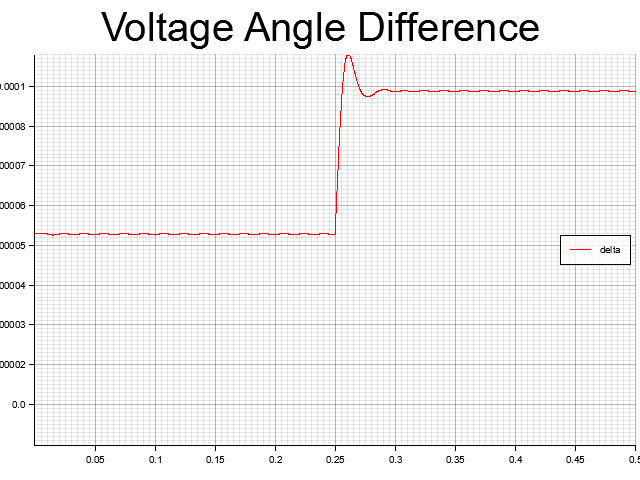
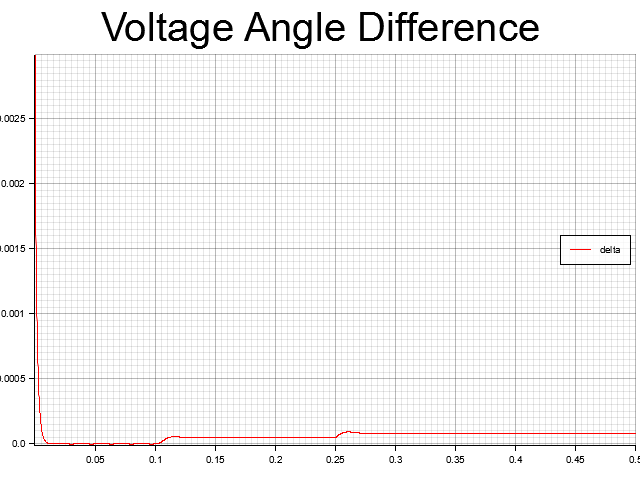
Modified simulation for GFM object with presync

Changed region(s): [[0.0, 0.0938, 1.0, 0.9375]]

diff --git a/src/main.rs b/src/main.rs
@@ -3,7 +3,7 @@
 use std::*;
 use plotters::prelude::*;
 use unifi_gfm::calc::*;
-use unifi_gfm::dvoc::*;
+use unifi_gfm::gfm::*;
 use unifi_gfm::refs::*;
 use unifi_gfm::sims::*;
 use unifi_gfm::constants::*;
@@ -24,12 +24,14 @@ fn main() -> Result<(), Box<dyn std::error::Error>> {
     let dt: f32 = 1.0e-4_f32;
     let xi: f32 = 15.;
     let c: f32 = 0.2679;
+    let gamma: f32 = 1.; 
 
     let z_base = 3. * v_nom * v_nom / s_rated;
 
     let mut inv = build_dvoc_controller(v_nom, w_nom, xi, c);
-    inv.x[(1)] = dt * 0.53;  // Initialize inverter angle leading the grid angle by ~half a cycle to start closer to the digital equalibria
-    inv.x[(0)] = 0.999965;  // Initialize inverter voltage slightly lower than nominal to start closer to the digital equalibria
+    inv.x[(1)] = 0.003;  // Initialize inverter angle to be off from the grid
+    inv.x[(0)] = 1.1;  // Initialize inverter voltage
+    let mut gfm = build_gfm(&mut inv, gamma);  // Place the dVOC controller within a GFM interface object
 
     let rf = 0.8;
     let lf = 1.5e-3;
@@ -39,14 +41,21 @@ fn main() -> Result<(), Box<dyn std::error::Error>> {
     /*
     RUNNING DYNAMICAL SIMULATION
     */
+    // Simulation settings
     let t_end = 0.5;  // Simulate time in seconds
+    let t_step = t_end / 2.; // Active power reference step time
+    let t_switch = 0.1;  // Grid-side switch time
     let n_steps: u32 = (t_end / dt).ceil() as u32;
     let cont_n_steps = 20;  // Number of steps taken for 'continuous' dynamics for each digital step
     let cont_dt = dt / (cont_n_steps as f32);
     let steps: Vec<u32> = (0..n_steps+1).collect();
+    // Initialize simulation variables
     let mut t: f32;
-    let mut p: f32 = 0.; let mut q: f32 = 0.;
-    let mut delta: f32; let mut i_alpha_sample: f32; let mut i_beta_sample: f32;
+    let mut p: f32 = 0.; let mut q: f32 = 0.; let mut delta: f32; 
+    let mut i_alpha_sample: f32; let mut i_beta_sample: f32;
+    let mut v_grid_sample: f32; let mut theta_grid_sample: f32;
+    let mut v_grid: f32; let mut theta_grid: f32; let mut v_inv: [f32; 2];
+    // Simulation data vectors
     let mut v_values: Vec<(f32, f32)> = vec![(0., 0.); (n_steps+1) as usize];
     let mut theta_values: Vec<(f32, f32)> = vec![(0., 0.); (n_steps+1) as usize];
     let mut vg_values: Vec<(f32, f32)> = vec![(0., 0.); (n_steps+1) as usize];
@@ -58,21 +67,22 @@ fn main() -> Result<(), Box<dyn std::error::Error>> {
     let mut ib_values: Vec<(f32, f32)> = vec![(0., 0.); (n_steps+1) as usize];
     for step in steps {  // TODO: Debug this to see where the overflow occurs...
         t = step as f32 * dt;
-        if t > (t_end / 2.) {
-            inv.set_p_ref(1.0);
+        if t > t_step {
+            gfm.set_p_ref(1.0);
         }
 
         // Collect voltage values
-        v_values[step as usize] = (t, inv.x[(0)]);
-        theta_values[step as usize] = (t, inv.x[(1)]);
+        v_inv = gfm.get_pu_voltage();
+        v_values[step as usize] = (t, v_inv[0]);
+        theta_values[step as usize] = (t, v_inv[1]);
         vg_values[step as usize] = (t, bus.x[(0)]);
         thetag_values[step as usize] = (t, bus.x[(1)]);
         ia_values[step as usize] = (t, line.x[(0)]);
         ib_values[step as usize] = (t, line.x[(1)]);
-        delta = inv.x[(1)] - bus.x[(1)];
+        delta = v_inv[1] - bus.x[(1)];
         if delta > (1. / f_nom) {
             delta = -(1. / f_nom) + delta;
-        } else if delta < -(1. / f_nom - 5.0e-4) {
+        } else if delta < -(1. / f_nom - 1.0e-4) {
             delta = (1. / f_nom) + delta;
         }
         delta_values[step as usize] = (t, delta);
@@ -80,22 +90,35 @@ fn main() -> Result<(), Box<dyn std::error::Error>> {
         // Sample the current
         i_alpha_sample = line.x[(0)];
         i_beta_sample = line.x[(1)];
+        v_grid_sample = bus.x[(0)];
+        theta_grid_sample = bus.x[(1)] * bus.w_nom;
+        let v_grid_alpha_beta = AlphaBeta::from_polar(v_grid_sample, theta_grid_sample);
 
         // Step the system
         for n in 0..cont_n_steps {
             // Calculate power
-            let v = AlphaBeta::from_polar(inv.x[(0)], inv.x[(1)] * inv.w_nom);
+            let v = AlphaBeta::from_polar(v_inv[0], v_inv[1] * gfm.ctrl.get_w_nom());
             let i = AlphaBeta::from_ab_(line.x[(0)], line.x[(1)]);
             (p, q) = calc_ab_power(v, i);
             p_values[(cont_n_steps*step + n) as usize] = (t + (n as f32)*cont_dt, p);
             q_values[(cont_n_steps*step + n) as usize] = (t + (n as f32)*cont_dt, q);
+            
+            // Step the system
+            if t > t_switch {  // Get inductor grid-side voltage based on switch state
+                gfm.disable_presync();
+                v_grid = bus.x[(0)];  // TODO: rename this for clarity
+                theta_grid = bus.x[(1)] * bus.w_nom;
+            } else {
+                v_grid = v_inv[0];
+                theta_grid = v_inv[1] * gfm.ctrl.get_w_nom();
+            }
+            line.step(cont_dt, [v_inv[0], v_inv[1] * gfm.ctrl.get_w_nom(), 
+                                   v_grid, theta_grid]);
             bus.step_(cont_dt);
-            line.step(cont_dt, [inv.x[(0)], inv.x[(1)] * inv.w_nom, 
-                                  bus.x[(0)], bus.x[(1)] * bus.w_nom]);
         }
 
         // Step the controller after a z^-1 delay
-        inv.step(dt, [i_alpha_sample, i_beta_sample]);
+        gfm.gfm_step(dt, [i_alpha_sample, i_beta_sample], [v_grid_alpha_beta.alpha, v_grid_alpha_beta.beta]);
     }
     println!("v: {}, theta: {}", inv.x[(0)], inv.x[(1)]);
     println!("ia: {}, ib: {}", line.x[(0)], line.x[(1)]);

diff --git a/src/bin/droop_sim.rs b/src/bin/droop_sim.rs
@@ -3,7 +3,7 @@
 use std::*;
 use plotters::prelude::*;
 use unifi_gfm::calc::*;
-use unifi_gfm::droop::*;
+use unifi_gfm::gfm::*;
 use unifi_gfm::refs::*;
 use unifi_gfm::sims::*;
 use unifi_gfm::constants::*;
